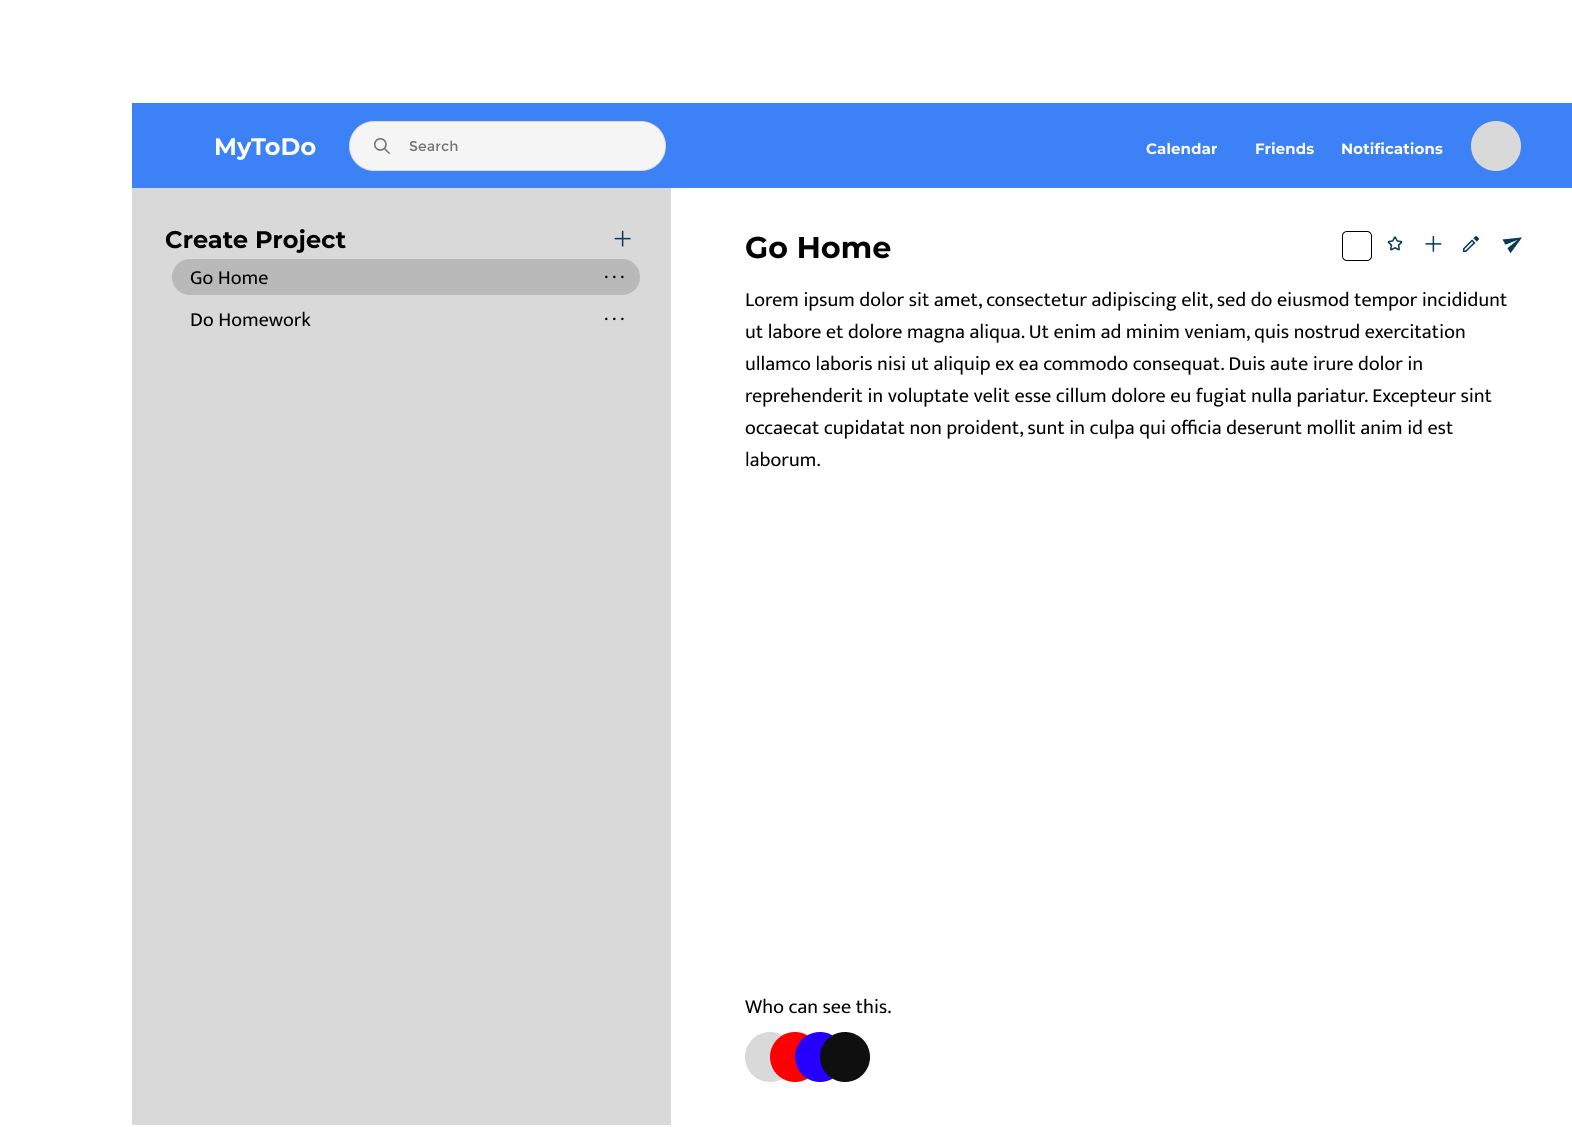
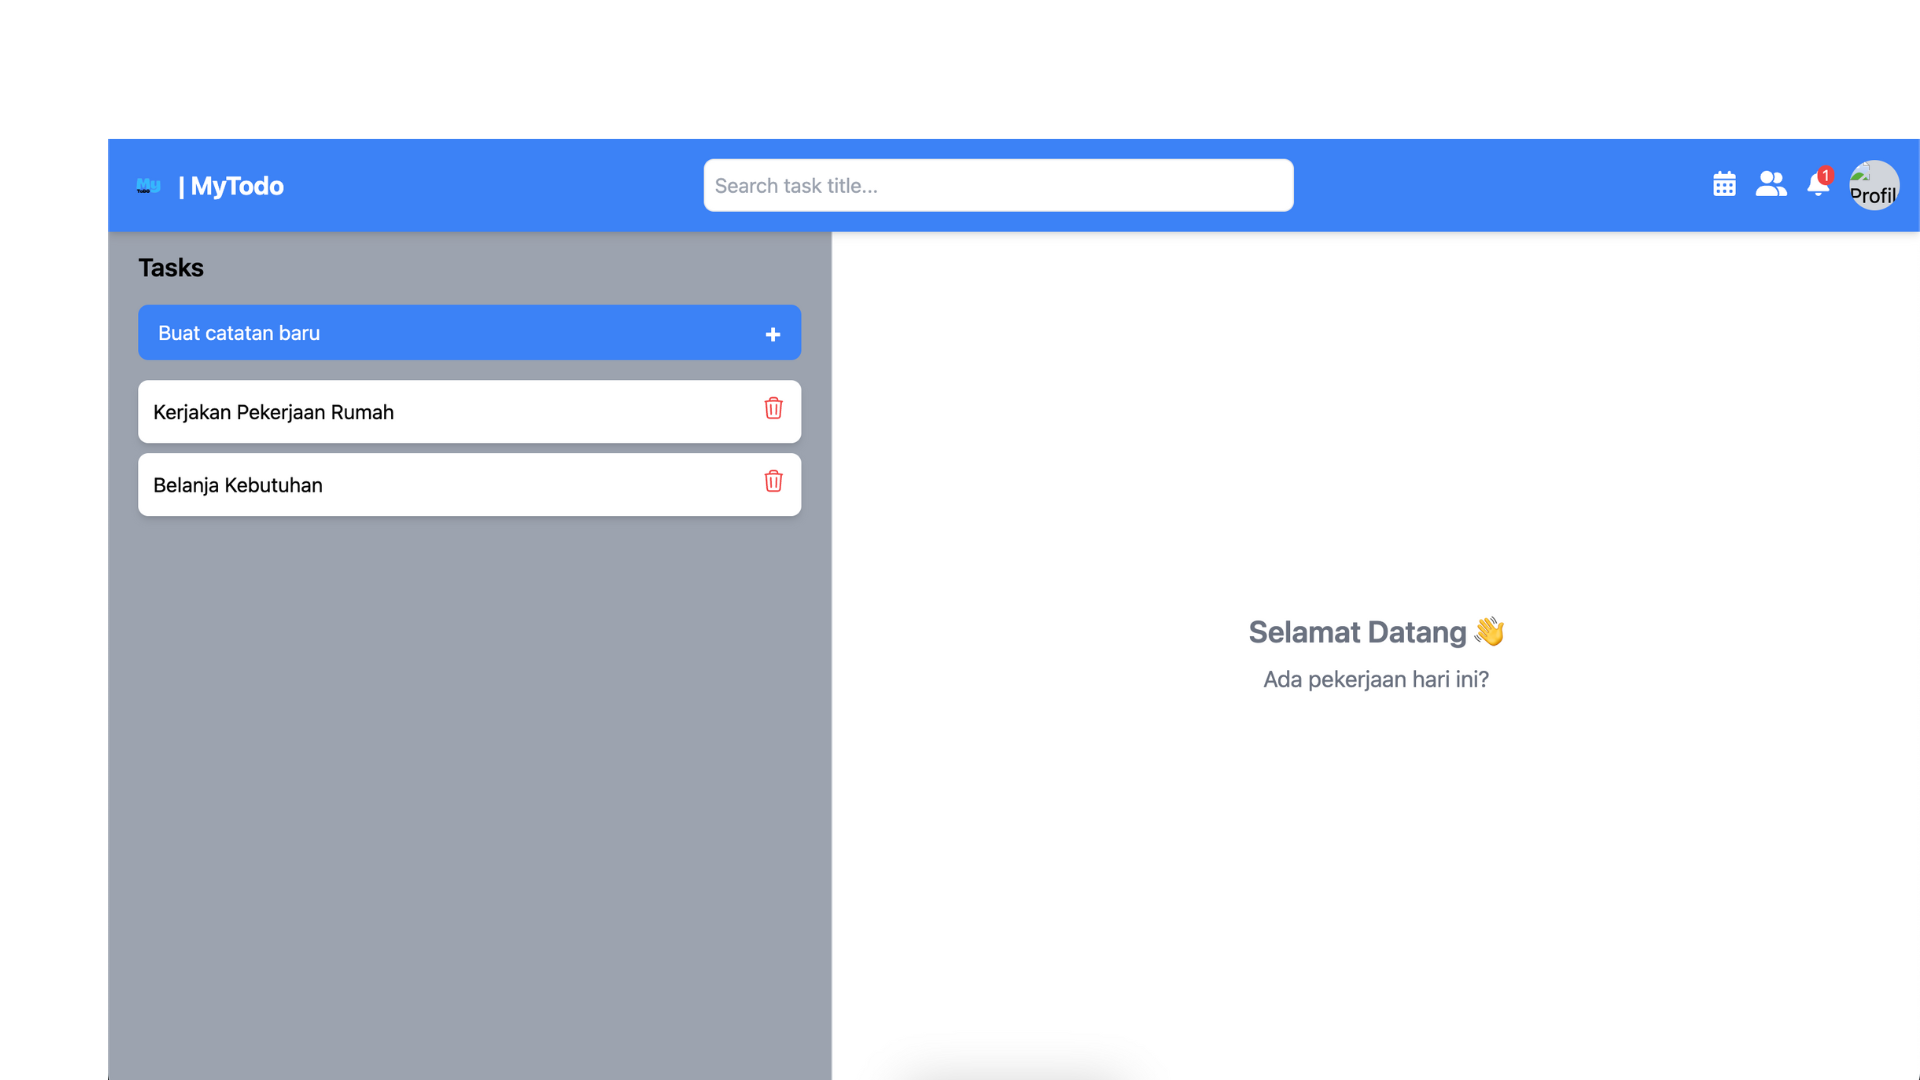
Fix Notes

diff --git a/resources/views/partials/notesdetail.blade.php b/resources/views/partials/notesdetail.blade.php
@@ -12,7 +12,7 @@
                 <li
                     class="p-3 bg-white shadow-md rounded-lg cursor-pointer hover:bg-gray-200 flex justify-between items-center">
                     <!-- Bagian Judul Tugas -->
-                    <span @click="selectedTask = {{ json_encode($task) }}" class="flex-grow">
+                    <span @click="selectedTask && selectedTask.id === {{ $task->id }} ? selectedTask = { id: null } : selectedTask = {{ json_encode($task) }}" class="flex-grow">
                         {{ $task->title }}
                     </span>
 
@@ -28,7 +28,13 @@
 
     <!-- Task Details (60%) -->
     <div class="w-3/5 p-6 bg-white h-full overflow-y-auto">
-        <template x-if="selectedTask">
+        <template x-if="!selectedTask.id">
+            <div class="flex flex-col items-center justify-center h-full text-center text-gray-500">
+                <h2 class="text-2xl font-semibold mb-2">Selamat Datang 👋</h2>
+                <p class="text-lg">Ada pekerjaan hari ini?</p>
+            </div>
+        </template>
+        <template x-if="selectedTask.id">
             <div>
                 <div class="flex justify-between items-center mb-2">
                     <h2 class="text-xl font-semibold" x-text="selectedTask.title"></h2>
